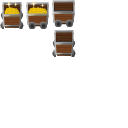
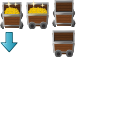
Add cart and golds to the map Show arrow when player has gold and near cart

Changed region(s): [[0.4062, 0.0, 0.5938, 0.4688], [0.0, 0.25, 0.1562, 0.4062]]

diff --git a/TileGame/GamePlayRenderingLayer.m b/TileGame/GamePlayRenderingLayer.m
@@ -16,6 +16,7 @@
 #import "Lightup.h"
 #import "GoldCart.h"
 #import "Gold.h"
+#import "Arrow.h"
 
 @interface GamePlayRenderingLayer (PrivateMethods)
 -(void)testCollisions:(ccTime)dt;
@@ -60,7 +61,6 @@ int maxSight = 400;
 	[_meta release];
 	[_hud release];
 	[heroSprite release];
-
     
     [[NSNotificationCenter defaultCenter] removeObserver:self];
 
@@ -136,6 +136,7 @@ int maxSight = 400;
     }
     return nil;
 }
+
 -(BOOL)isCollectableTile:(CGPoint)position forMeta:(NSDictionary*)meta {
     if (!meta) {
         meta = [self getTileMetaData:position];
@@ -210,12 +211,14 @@ int maxSight = 400;
         if (railTileName == @"Straight") {
             return YES;
         }
+        else if (railTileName == @"Curved") {
+            return YES;
+        }
     }
     return NO;
 }
 
 -(CGPoint)findNextRailPosition:(CGPoint)subjectPos playerFacing:(FacingDirection)direction {
-    
     CGPoint tilePos = [self tileCoordForPosition:subjectPos];
         
     // Find the final destination of the cart based on the next destination
@@ -271,10 +274,7 @@ int maxSight = 400;
     
     CGPoint tileCoord = [self tileCoordForPosition:position];
     
-    CCLOG(@"Tile coord: %f, %f", tileCoord.x, tileCoord.y);
-    
     int metaGid = [_meta tileGIDAt:tileCoord];
-    
     if (metaGid) {
         NSDictionary *properties = [_tileMap propertiesForGID:metaGid];
         if (properties) {
@@ -388,10 +388,24 @@ int maxSight = 400;
     CGPoint tileCoord = [self tileCoordForPosition:position];
     CGPoint tilePos = [self positionForTileCoord:tileCoord];
     
-    _player.goldInPossession.position = ccp(tilePos.x, tilePos.y);
-    [_player.goldInPossession uncollect];
-    _player.goldInPossession = nil; // unreference
-    [[SimpleAudioEngine sharedEngine] playEffect:@"miss.caf"];
+    CCArray* carts = [_cartSpriteBatchNode children];
+    
+    for (GoldCart *cart in carts) {
+        if (cart.readyForLoading && CGRectIntersectsRect(_player.boundingBox, cart.boundingBox)) {
+            int currentAmount = [cart loadGold];
+            [cart setDisplayFrame:[[CCSpriteFrameCache sharedSpriteFrameCache] spriteFrameByName:@"cart-with-gold-front-32.png"]];
+            _player.goldInPossession = nil; // unreference
+            [[SimpleAudioEngine sharedEngine] playEffect:@"gold.caf"];
+            CCLOG(@"Load: %d / %d", currentAmount, cart.capacity);
+        }
+    }
+
+    if (_player.goldInPossession != nil) {
+        _player.goldInPossession.position = ccp(tilePos.x, tilePos.y);
+        [_player.goldInPossession uncollect];
+        _player.goldInPossession = nil; // unreference
+        [[SimpleAudioEngine sharedEngine] playEffect:@"miss.caf"];
+    }
 }
 
 -(void)pickupGold:(CGPoint)position facing:(FacingDirection)direction {
@@ -406,14 +420,13 @@ int maxSight = 400;
         if ([self canPickupGold:gold atPosition:position facing:direction]) {
             _player.goldInPossession = gold;
             [gold collect];
-            [[SimpleAudioEngine sharedEngine] playEffect:@"gold.caf"];
+            [[SimpleAudioEngine sharedEngine] playEffect:@"pickup.caf"];
             break;
         }
     }
 }
 
--(void)moveHero:(CGPoint)touchLocation facing:(FacingDirection)direction
-{
+-(void)moveHero:(CGPoint)touchLocation facing:(FacingDirection)direction {
     CGPoint playerPos = touchLocation;
     
     if (playerPos.x <= (_tileMap.mapSize.width * _tileMap.tileSize.width) &&
@@ -473,6 +486,12 @@ int maxSight = 400;
 - (void) speedupUsedUp:(NSNotification *) notification
 {
     CCLOG(@"Speedup used up");
+}
+
+#pragma mark GoldCartEvents
+
+-(void) handleFullCart:(NSNotification *) notification {
+    CCLOG(@"Cart is full!");
 }
 
 #pragma mark PathFinding
@@ -769,6 +788,7 @@ int maxSight = 400;
 		//Observer notifications
         [[NSNotificationCenter defaultCenter] addObserver:self selector:@selector(speedupUsedOnce:) name:@"usedOnce" object:nil];
         [[NSNotificationCenter defaultCenter] addObserver:self selector:@selector(speedupUsedUp:) name:@"usedUp" object:nil];
+        [[NSNotificationCenter defaultCenter] addObserver:self selector:@selector(handleFullCart:) name:@"cartFull" object:nil];
     
 		//Schedule updates
 		[self scheduleUpdate];
@@ -785,12 +805,17 @@ int maxSight = 400;
     if (_tmpPathFindingDelta >= _pathFindingThreshold) {
         _tmpPathFindingDelta = 0.5f;
         
-        CCLOG(@"Updating path finding...");
-        
+        // update path finding
         CCArray* zombies = [_zombieSpriteBatchNode children];
         
         for (GameCharacter *zombie in zombies) {
             [zombie updateStateWithDeltaTime:delta andGameObject:_player];
+        }
+        
+        CCArray* carts = [_cartSpriteBatchNode children];
+        
+        for (GameObject *cart in carts) {
+            [cart updateStateWithDeltaTime:delta andGameObject:_player];
         }
     }
 }

diff --git a/TileGame/GoldCart.m b/TileGame/GoldCart.m
@@ -7,25 +7,59 @@
 //
 
 #import "GoldCart.h"
+#import "Arrow.h"
+#import "CCHero.h"
 
 @implementation GoldCart
 
 @synthesize facingDirection = _facingDirection;
 @synthesize capacity = _capacity;
-@synthesize currentAmount = _currentAmount;
+@synthesize readyForLoading = _readyForLoading;
 
--(void) dealloc {
+-(void) dealloc {    
+    [_arrow release];
+    _arrow = nil;
+
     [super dealloc];
 }
 
--(void)updateStateWithDeltaTime:(ccTime)deltaTime andGameObject:(GameObject *)gameObject {
-    if (gameObject.gameObjectType == kHeroType) {
-        
+-(BOOL)isFull {
+    return _currentAmount >= _capacity;
+}
+-(void)updateStateWithDeltaTime:(ccTime)deltaTime andGameObject:(CCHero *)target {
+    if ([self isFull]) {
+        return;
+    }
+    
+    if (target.goldInPossession == nil) {
+        [_arrow hide];
+        _readyForLoading = NO;
+    }
+    else {
+        if (CGRectIntersectsRect(self.boundingBox, target.boundingBox)) {
+            [_arrow show];
+            _readyForLoading = YES;
+        }
+        else {
+            [_arrow hide];
+            _readyForLoading = NO;
+        }
     }
 }
 
--(void)changeState:(ContainerStates)newState {
+-(int)loadGold {
+    if ([self isFull]) {
+        return _currentAmount;
+    }
     
+    _currentAmount += 1;
+    if (_currentAmount == _capacity) {
+        _readyForLoading = NO;
+        [_arrow hide];
+        [[NSNotificationCenter defaultCenter] postNotificationName:@"cartFull" object:self ];
+    }
+    
+    return _currentAmount;
 }
 
 -(id) init
@@ -33,6 +67,11 @@
     if( (self=[super init]) )
     {
         _facingDirection = kFacingDown;
+        _readyForLoading = NO;
+        _arrow = [[Arrow alloc] initWithSpriteFrameName:@"arrow-down.png"];
+        _currentAmount = 0;
+        _capacity = 1;
+        [self addChild:_arrow];
     }
     return self;
 }

diff --git a/TileGame/Arrow.m b/TileGame/Arrow.m
@@ -1,0 +1,58 @@
+//
+//  CCArrow.m
+//  TileGame
+//
+//  Created by Shingo Tamura on 6/10/12.
+//
+//
+
+#import "Arrow.h"
+
+@implementation Arrow
+
+-(void) dealloc {
+    [super dealloc];
+}
+
+-(void)show {
+    if (!self.visible) {
+        self.visible = YES;
+        
+        if (_animationHandle != nil) {
+            [self stopAction:_animationHandle];
+            _animationHandle = nil;
+        }
+        
+        CGPoint base = ccp(self.contentSize.width / 2.0f, self.contentSize.height * 1.1);
+        self.position = base;
+        CGPoint dest = ccp(self.contentSize.width / 2.0f, self.contentSize.height / 1.1f);
+        id moveDown = [CCMoveTo actionWithDuration:0.4f position:dest];
+        id moveBackUp = [CCMoveTo actionWithDuration:0.2f position:base];
+        id sequence = [CCSequence actions:moveDown, moveBackUp, nil];
+        _animationHandle = [CCRepeatForever actionWithAction:sequence];
+        
+        [self runAction:_animationHandle];
+        [_animationHandle retain];
+    }
+}
+
+-(void)hide {
+    if (self.visible) {
+        self.visible = NO;
+        
+        if (_animationHandle != nil) {
+            [self stopAction:_animationHandle];
+        }
+    }
+}
+
+-(id) init
+{
+    if( (self=[super init]) )
+    {
+        self.visible = NO;
+    }
+    return self;
+}
+
+@end

diff --git a/TileGame/GoldCart.h b/TileGame/GoldCart.h
@@ -9,16 +9,22 @@
 #import "GameObject.h"
 #import "CommonProtocol.h"
 
+@class Arrow;
+@class CCHero;
+
 @interface GoldCart : GameObject {
     FacingDirection _facingDirection;
     int _capacity;
     int _currentAmount;
+    BOOL _readyForLoading;
+    Arrow *_arrow;
 }
 
--(void)changeState:(ContainerStates)newState;
+-(void)updateStateWithDeltaTime:(ccTime)deltaTime andGameObject:(CCHero *)target;
+-(int)loadGold;
 
 @property (nonatomic, assign) FacingDirection facingDirection;
 @property (nonatomic, assign) int capacity;
-@property (nonatomic, assign) int currentAmount;
+@property (nonatomic, assign) BOOL readyForLoading;
 
 @end

diff --git a/TileGame/Zombie.m b/TileGame/Zombie.m
@@ -396,8 +396,6 @@
 			[self removeFromParentAndCleanup:YES];
 		}
 		else if (isHeroWithinSight) {
-			CCLOG(@"hero coordinates: (%f, %f)", hero.position.x, hero.position.y);
-			CCLOG(@"zombie coordinates: (%f, %f)", self.position.x, self.position.y);
 			[self changeState:kStateAttacking];
 		}
 		else {

diff --git a/TileGame/Arrow.h b/TileGame/Arrow.h
@@ -1,0 +1,19 @@
+//
+//  CCArrow.h
+//  TileGame
+//
+//  Created by Shingo Tamura on 6/10/12.
+//
+//
+
+#import "GameObject.h"
+
+@interface Arrow : GameObject {
+    CCAnimation *_pointAnim;
+    CCAnimate *_animationHandle;
+}
+
+-(void)show;
+-(void)hide;
+
+@end

diff --git a/TileGame/GamePlayRenderingLayer.h b/TileGame/GamePlayRenderingLayer.h
@@ -16,6 +16,7 @@
 @class GamePlayInputLayer;
 @class CCSpotLight;
 @class Speedup;
+@class Arrow;
 
 @interface GamePlayRenderingLayer : CCLayer <GameplayLayerDelegate>
 {

diff --git a/TileGame/Gold.m b/TileGame/Gold.m
@@ -7,6 +7,7 @@
 //
 
 #import "Gold.h"
+#import "Arrow.h"
 
 @implementation Gold
 
